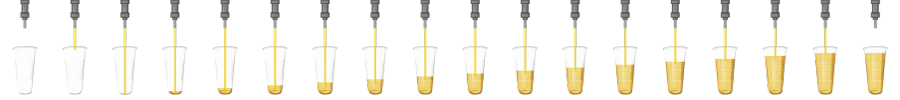
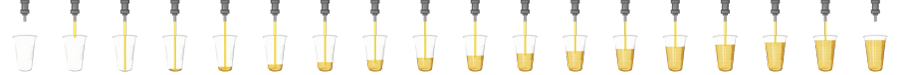
Optimized Win/Lose detection

diff --git a/receiver.js b/receiver.js
@@ -1,19 +1,17 @@
 function Receiver(pos, liq){
 	this.liq = liq;
 	this.pos = pos;
+	this.accepted = false;
 
 	this.loadSprite();
 	this.setContainers();
 
 	this.receive = function(pos, liq){
 		if(liq == this.liq){
+			this.accepted = true;
 			this.sprite.gotoAndPlay("fill");
-			return true;
 		}
-		else{
-			gameover();
-			return false;
-		}
+		return false;
 	}
 }
 
@@ -24,7 +22,7 @@ Receiver.prototype.loadSprite = function(){
 
 	var data = {
 		images: ["res/img/receivers/" + src + ".png"],
-		frames: {width:50, height:100},
+		frames: {width:50, height:75},
 		animations: {empty: [0], fill: [0, frames-1, "full"], full: [frames -1]}
 	};
 	var spriteSheet = new createjs.SpriteSheet(data);

diff --git a/Pipe.js b/Pipe.js
@@ -46,11 +46,8 @@ function Pipe(pos, t, rot){
 					var nb;
 					for(var j = 0; j < this.flows[i].exits.length; j++){
 						nb = this.neighbour(this.flows[i].exits[j]);
-						if(nb == null || !nb.receive(this.pos, this.flows[i].liq)){
+						if(nb == null || !nb.receive(this.pos, this.flows[i].liq))
 							map.flowing--;
-							if(map.flowing == 0)
-								gameover();
-						}
 					} 
 				}
 			}

diff --git a/Map.js b/Map.js
@@ -24,6 +24,18 @@ function Map(level){
 		}
 		if(this.selectedPipe != null && this.selectedPipe.locked)
 			this.selectedPipe = null;
+
+		if(this.open && this.flowing == 0){
+			for(var i = 0; i < this.cocktails.length; i++){
+				if(this.cocktails[i] != null && !this.cocktails[i].accepted){
+					gameover();
+					return;
+				}
+			}
+
+			//win();
+
+		}
 	}
 
 	this.flow = function(){

diff --git a/drinks.js b/drinks.js
@@ -9,11 +9,8 @@ function Drink(pos, type){
 	}
 
 	this.open = function(){
-		if(!this.under().receive({x: 1 + pos * 2, y: -1}, type)){
+		if(!this.under().receive({x: 1 + pos * 2, y: -1}, type))
 			map.flowing--;
-			if(map.flowing == 0)
-				gameover();
-		}
 	}
 
 	this.sprite.on("pressup", function(){
